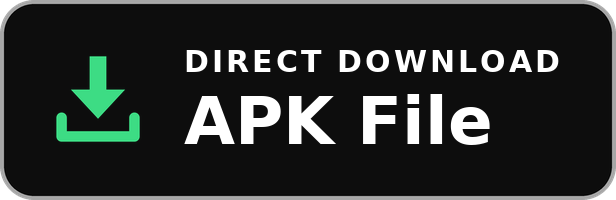
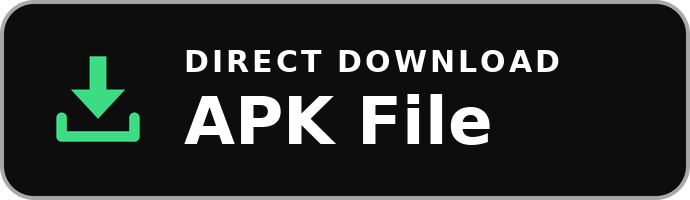
Update README.md

diff --git a/README.md b/README.md
@@ -19,13 +19,10 @@ MJ PDF is a fast, simple, powerful and totally private PDF reader made by [Mudle
 
 <br/>
 
-<a href="https://apt.izzysoft.de/fdroid/index/apk/com.gitlab.mudlej.MjPdfReader"><img src="https://gitlab.com/IzzyOnDroid/repo/-/raw/master/assets/IzzyOnDroid.png" height="76" alt="Get it on IzzyOnDroid"/></a>
-<a href="https://gitlab.com/mudlej_android/mj_pdf_reader/-/releases"><img src="assets/buttons/direct_apk.png" height="76" alt="Direct APK download"/></a>
-
-<br/>
-
-<a href="https://gitlab.com/mudlej_android/mj_pdf_reader"><img src="assets/buttons/gitlab.png" height="76" alt="Source code on GitLab"/></a>
-<a href="https://github.com/mudlej/mj_pdf/"><img src="assets/buttons/github.png" height="76" alt="GitHub mirror"/></a>
+<a href="https://apt.izzysoft.de/fdroid/index/apk/com.gitlab.mudlej.MjPdfReader"><img src="assets/buttons/izzy.png" height="60" alt="Get it on IzzyOnDroid"/></a>
+<a href="https://gitlab.com/mudlej_android/mj_pdf_reader/-/releases"><img src="assets/buttons/direct_apk.png" height="60" alt="Direct APK download"/></a>
+<a href="https://gitlab.com/mudlej_android/mj_pdf_reader"><img src="assets/buttons/gitlab.png" height="60" alt="Source code on GitLab"/></a>
+<a href="https://github.com/mudlej/mj_pdf/"><img src="assets/buttons/github.png" height="60" alt="GitHub mirror"/></a>
 
 <sub>F-Droid main repo and Play Store are not available for now, see the <a href="https://mudlej.com/projects/mj-pdf#faq">FAQ</a>.</sub>
 
